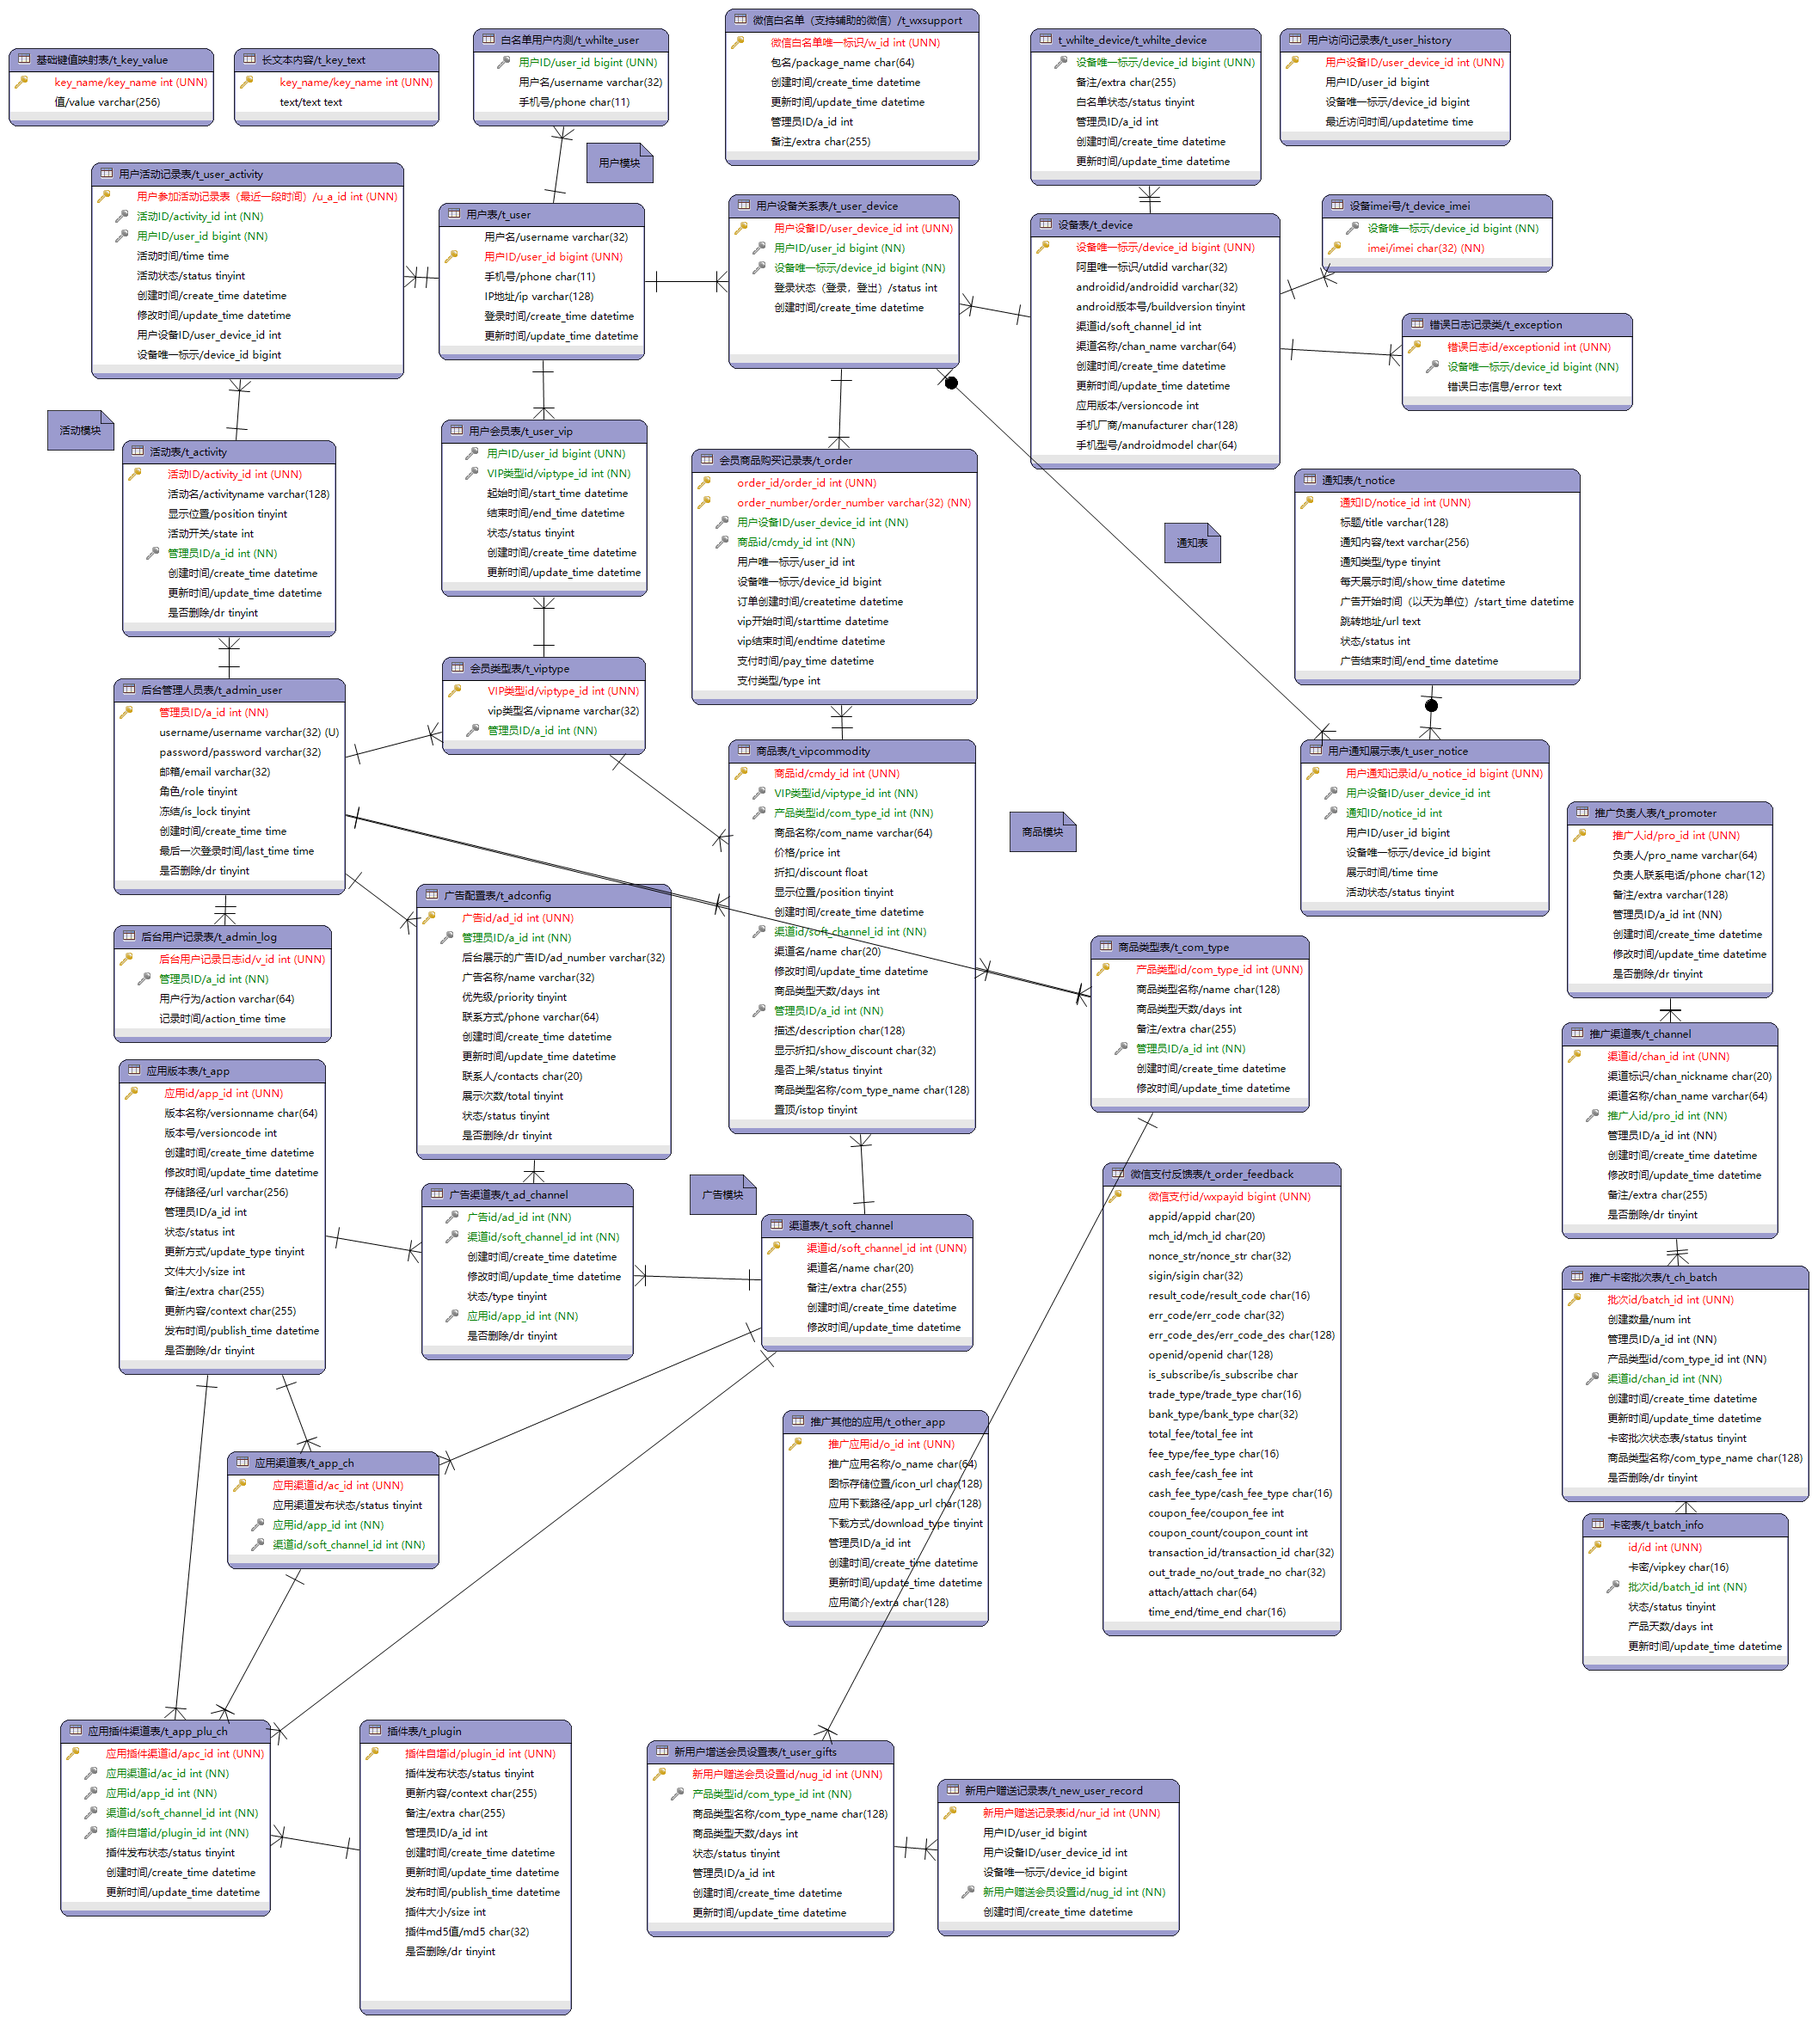
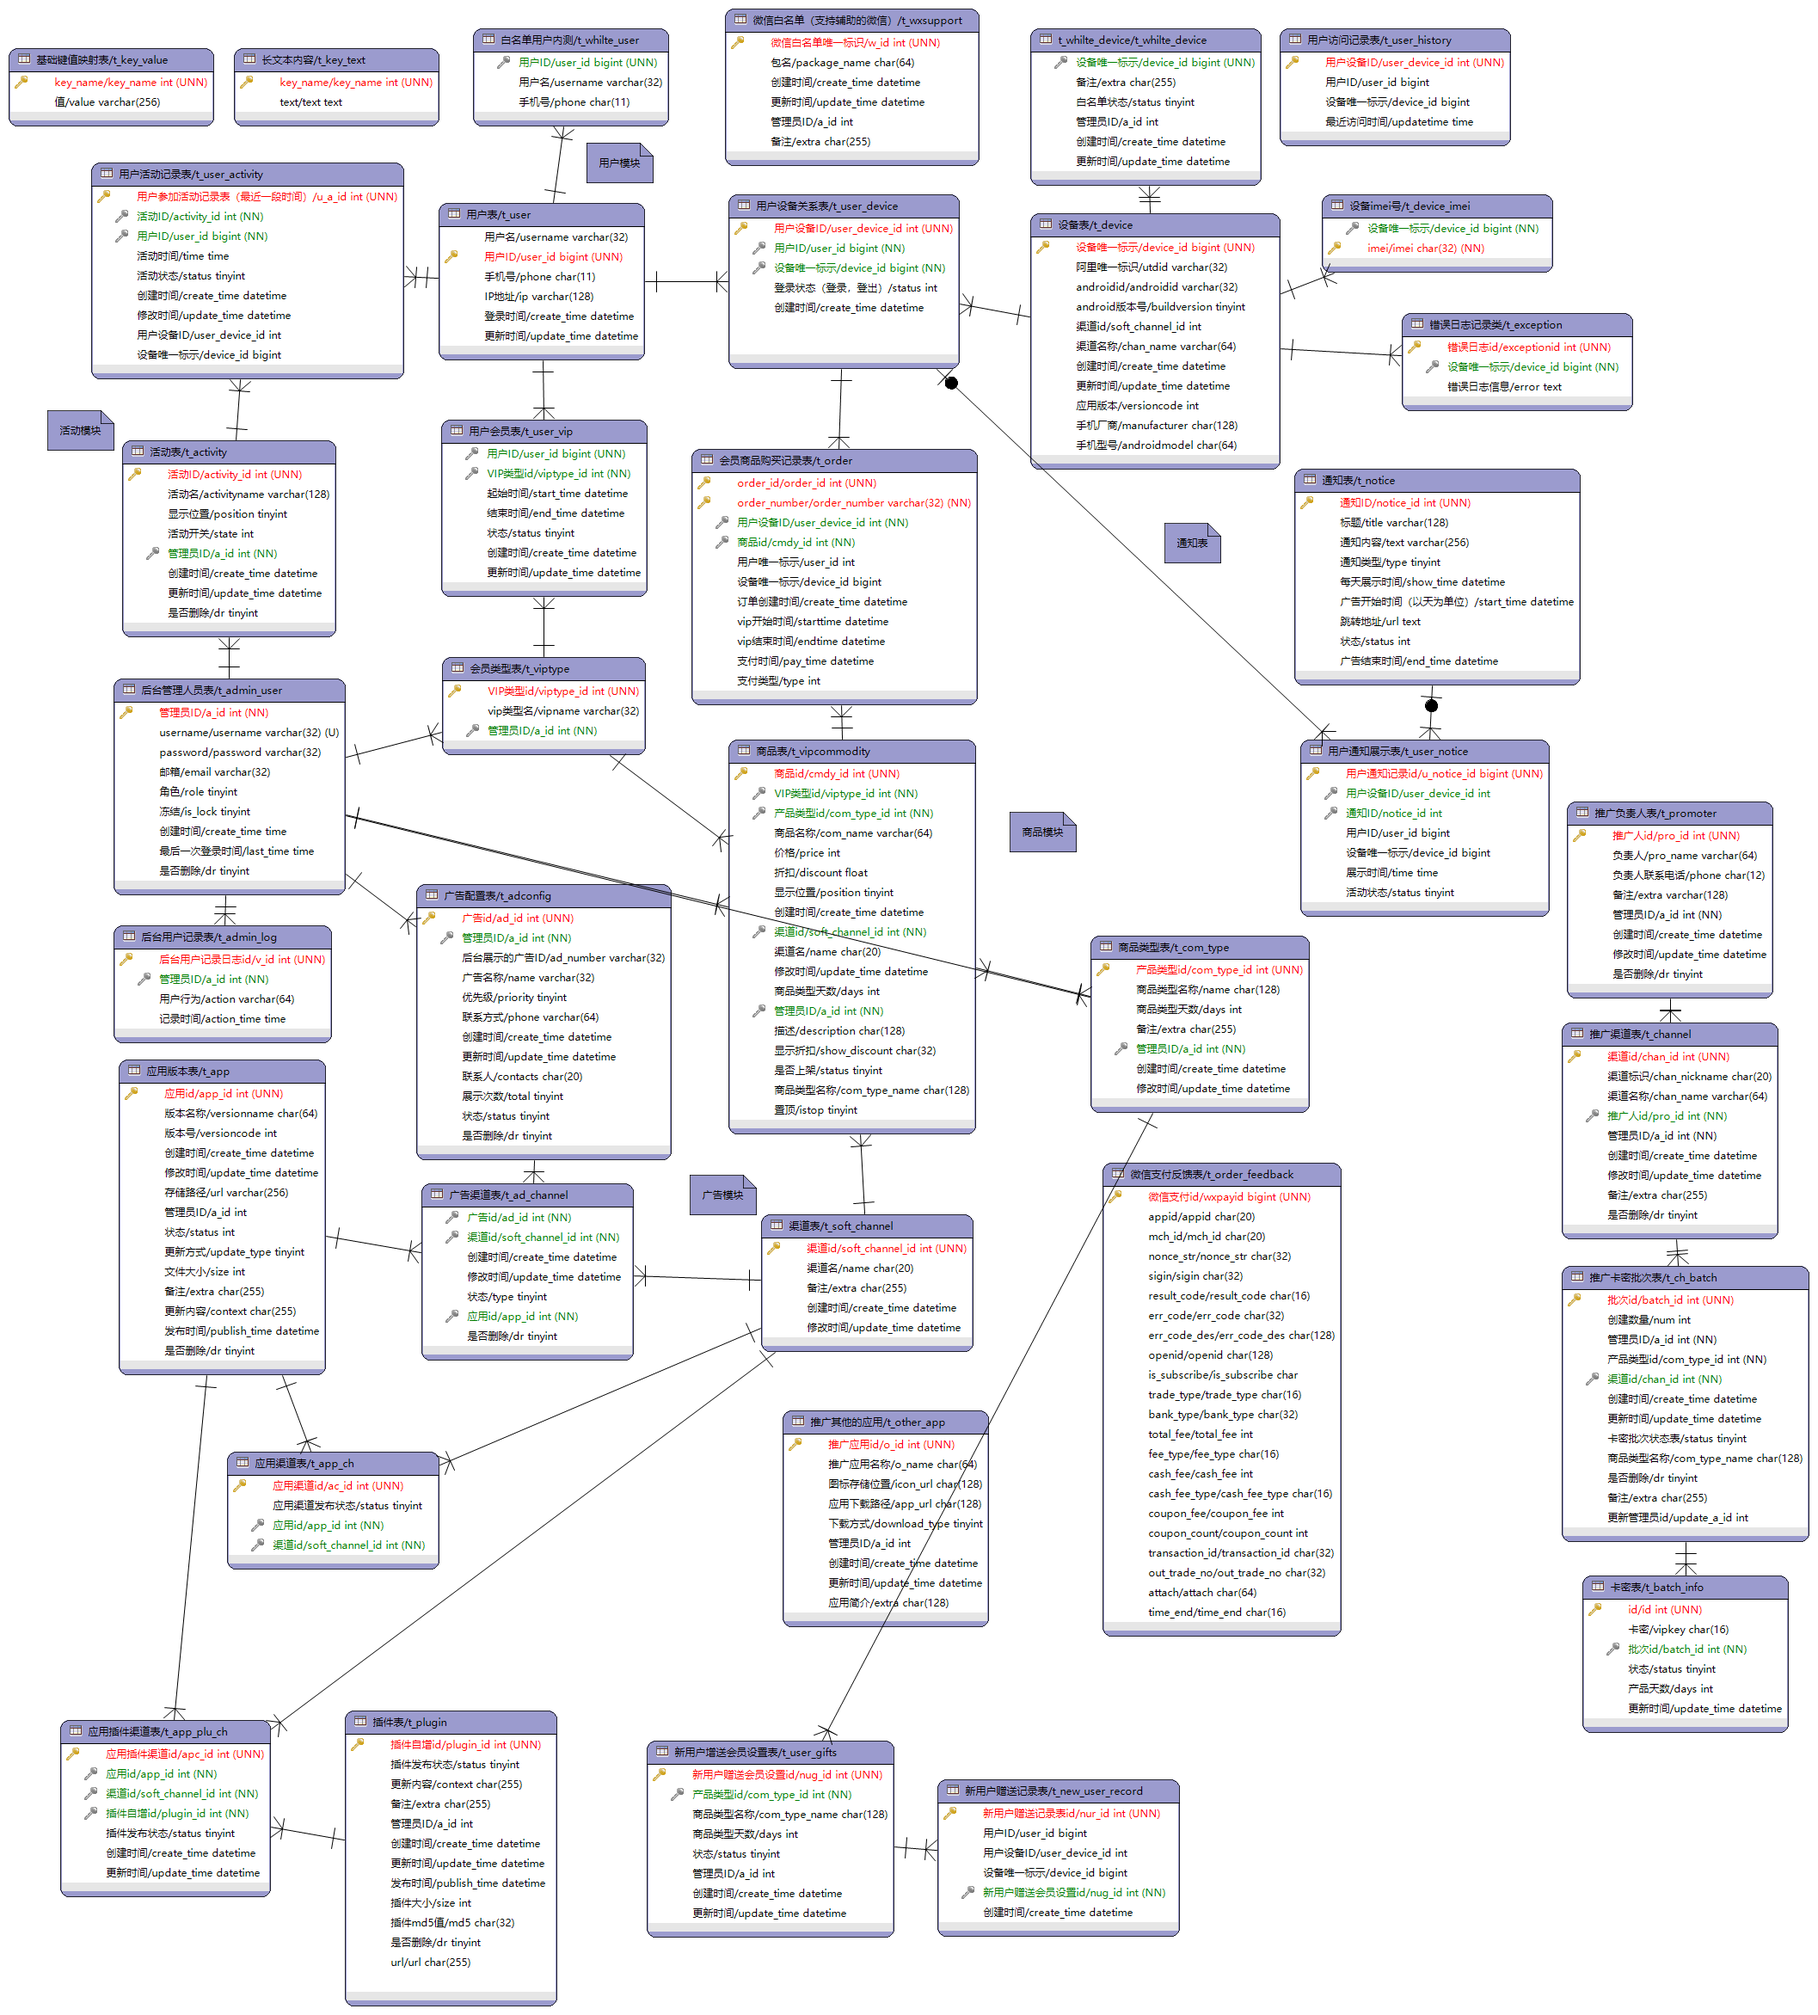
update table

diff --git a/smartweb/src/main/java/com/rpa/web/pojo/ChBatchPO.java b/smartweb/src/main/java/com/rpa/web/pojo/ChBatchPO.java
@@ -37,6 +37,10 @@ public class ChBatchPO implements Serializable {
      */
     private Byte dr;
 
+    private String extra;
+
+    private Integer updateAId;
+
     private static final long serialVersionUID = 1L;
 
     public Integer getBatchId() {
@@ -119,6 +123,22 @@ public class ChBatchPO implements Serializable {
         this.dr = dr;
     }
 
+    public String getExtra() {
+        return extra;
+    }
+
+    public void setExtra(String extra) {
+        this.extra = extra;
+    }
+
+    public Integer getUpdateAId() {
+        return updateAId;
+    }
+
+    public void setUpdateAId(Integer updateAId) {
+        this.updateAId = updateAId;
+    }
+
     @Override
     public boolean equals(Object that) {
         if (this == that) {
@@ -140,7 +160,9 @@ public class ChBatchPO implements Serializable {
             && (this.getUpdateTime() == null ? other.getUpdateTime() == null : this.getUpdateTime().equals(other.getUpdateTime()))
             && (this.getStatus() == null ? other.getStatus() == null : this.getStatus().equals(other.getStatus()))
             && (this.getComTypeName() == null ? other.getComTypeName() == null : this.getComTypeName().equals(other.getComTypeName()))
-            && (this.getDr() == null ? other.getDr() == null : this.getDr().equals(other.getDr()));
+            && (this.getDr() == null ? other.getDr() == null : this.getDr().equals(other.getDr()))
+            && (this.getExtra() == null ? other.getExtra() == null : this.getExtra().equals(other.getExtra()))
+            && (this.getUpdateAId() == null ? other.getUpdateAId() == null : this.getUpdateAId().equals(other.getUpdateAId()));
     }
 
     @Override
@@ -157,6 +179,8 @@ public class ChBatchPO implements Serializable {
         result = prime * result + ((getStatus() == null) ? 0 : getStatus().hashCode());
         result = prime * result + ((getComTypeName() == null) ? 0 : getComTypeName().hashCode());
         result = prime * result + ((getDr() == null) ? 0 : getDr().hashCode());
+        result = prime * result + ((getExtra() == null) ? 0 : getExtra().hashCode());
+        result = prime * result + ((getUpdateAId() == null) ? 0 : getUpdateAId().hashCode());
         return result;
     }
 
@@ -176,6 +200,8 @@ public class ChBatchPO implements Serializable {
         sb.append(", status=").append(status);
         sb.append(", comTypeName=").append(comTypeName);
         sb.append(", dr=").append(dr);
+        sb.append(", extra=").append(extra);
+        sb.append(", updateAId=").append(updateAId);
         sb.append(", serialVersionUID=").append(serialVersionUID);
         sb.append("]");
         return sb.toString();

diff --git a/smartweb/src/main/java/com/rpa/web/pojo/AppPluChPO.java b/smartweb/src/main/java/com/rpa/web/pojo/AppPluChPO.java
@@ -10,8 +10,6 @@ import java.util.Date;
 public class AppPluChPO implements Serializable {
     private Integer apcId;
 
-    private Integer acId;
-
     private Integer appId;
 
     private Integer softChannelId;
@@ -35,14 +33,6 @@ public class AppPluChPO implements Serializable {
 
     public void setApcId(Integer apcId) {
         this.apcId = apcId;
-    }
-
-    public Integer getAcId() {
-        return acId;
-    }
-
-    public void setAcId(Integer acId) {
-        this.acId = acId;
     }
 
     public Integer getAppId() {
@@ -106,7 +96,6 @@ public class AppPluChPO implements Serializable {
         }
         AppPluChPO other = (AppPluChPO) that;
         return (this.getApcId() == null ? other.getApcId() == null : this.getApcId().equals(other.getApcId()))
-            && (this.getAcId() == null ? other.getAcId() == null : this.getAcId().equals(other.getAcId()))
             && (this.getAppId() == null ? other.getAppId() == null : this.getAppId().equals(other.getAppId()))
             && (this.getSoftChannelId() == null ? other.getSoftChannelId() == null : this.getSoftChannelId().equals(other.getSoftChannelId()))
             && (this.getPluginId() == null ? other.getPluginId() == null : this.getPluginId().equals(other.getPluginId()))
@@ -120,7 +109,6 @@ public class AppPluChPO implements Serializable {
         final int prime = 31;
         int result = 1;
         result = prime * result + ((getApcId() == null) ? 0 : getApcId().hashCode());
-        result = prime * result + ((getAcId() == null) ? 0 : getAcId().hashCode());
         result = prime * result + ((getAppId() == null) ? 0 : getAppId().hashCode());
         result = prime * result + ((getSoftChannelId() == null) ? 0 : getSoftChannelId().hashCode());
         result = prime * result + ((getPluginId() == null) ? 0 : getPluginId().hashCode());
@@ -137,7 +125,6 @@ public class AppPluChPO implements Serializable {
         sb.append(" [");
         sb.append("Hash = ").append(hashCode());
         sb.append(", apcId=").append(apcId);
-        sb.append(", acId=").append(acId);
         sb.append(", appId=").append(appId);
         sb.append(", softChannelId=").append(softChannelId);
         sb.append(", pluginId=").append(pluginId);

diff --git a/smartweb/src/main/java/com/rpa/web/pojo/PluginPO.java b/smartweb/src/main/java/com/rpa/web/pojo/PluginPO.java
@@ -36,6 +36,8 @@ public class PluginPO implements Serializable {
      */
     private Byte dr;
 
+    private String url;
+
     private static final long serialVersionUID = 1L;
 
     public Integer getPluginId() {
@@ -126,6 +128,14 @@ public class PluginPO implements Serializable {
         this.dr = dr;
     }
 
+    public String getUrl() {
+        return url;
+    }
+
+    public void setUrl(String url) {
+        this.url = url;
+    }
+
     @Override
     public boolean equals(Object that) {
         if (this == that) {
@@ -148,7 +158,8 @@ public class PluginPO implements Serializable {
             && (this.getPublishTime() == null ? other.getPublishTime() == null : this.getPublishTime().equals(other.getPublishTime()))
             && (this.getSize() == null ? other.getSize() == null : this.getSize().equals(other.getSize()))
             && (this.getMd5() == null ? other.getMd5() == null : this.getMd5().equals(other.getMd5()))
-            && (this.getDr() == null ? other.getDr() == null : this.getDr().equals(other.getDr()));
+            && (this.getDr() == null ? other.getDr() == null : this.getDr().equals(other.getDr()))
+            && (this.getUrl() == null ? other.getUrl() == null : this.getUrl().equals(other.getUrl()));
     }
 
     @Override
@@ -166,6 +177,7 @@ public class PluginPO implements Serializable {
         result = prime * result + ((getSize() == null) ? 0 : getSize().hashCode());
         result = prime * result + ((getMd5() == null) ? 0 : getMd5().hashCode());
         result = prime * result + ((getDr() == null) ? 0 : getDr().hashCode());
+        result = prime * result + ((getUrl() == null) ? 0 : getUrl().hashCode());
         return result;
     }
 
@@ -186,6 +198,7 @@ public class PluginPO implements Serializable {
         sb.append(", size=").append(size);
         sb.append(", md5=").append(md5);
         sb.append(", dr=").append(dr);
+        sb.append(", url=").append(url);
         sb.append(", serialVersionUID=").append(serialVersionUID);
         sb.append("]");
         return sb.toString();
